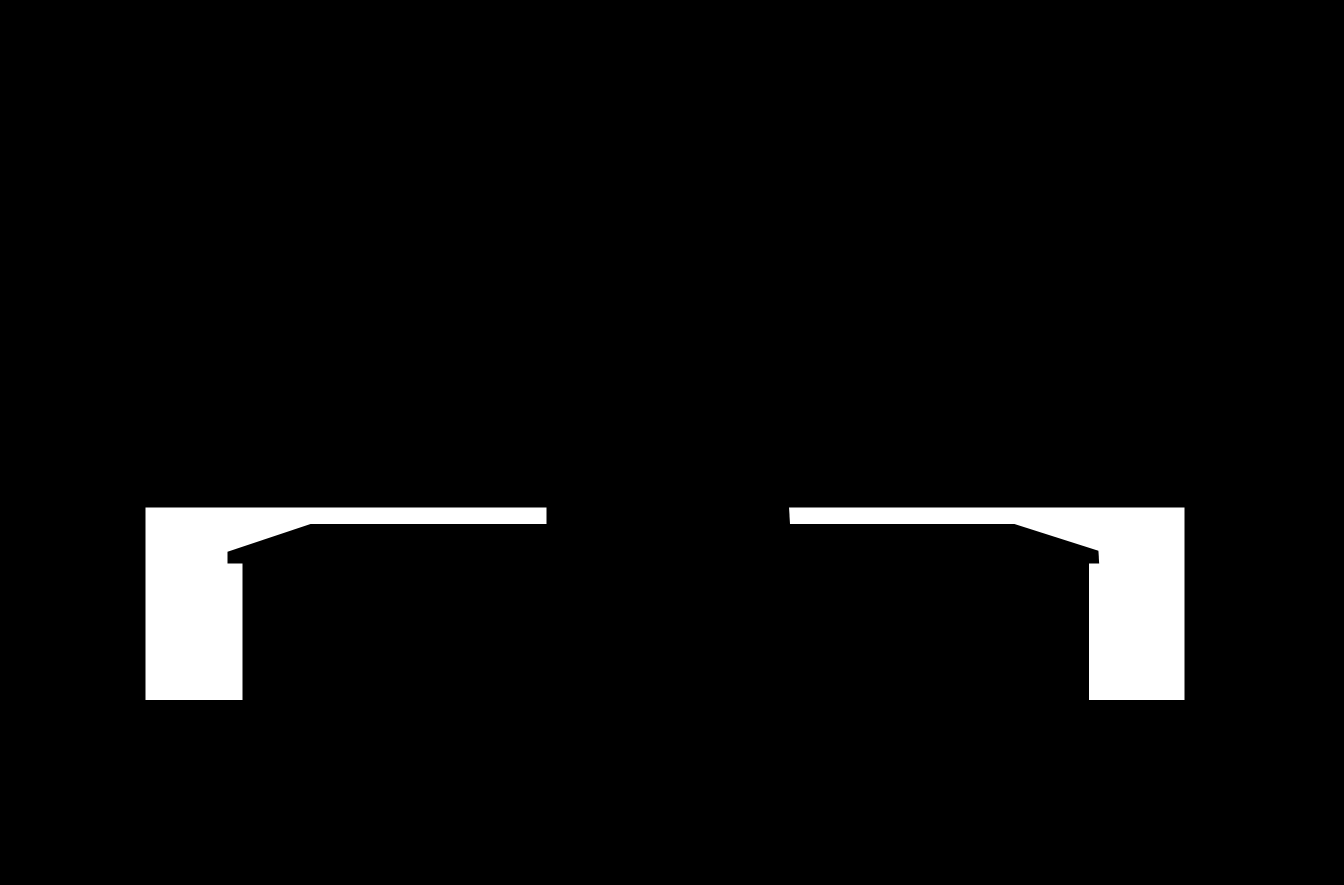
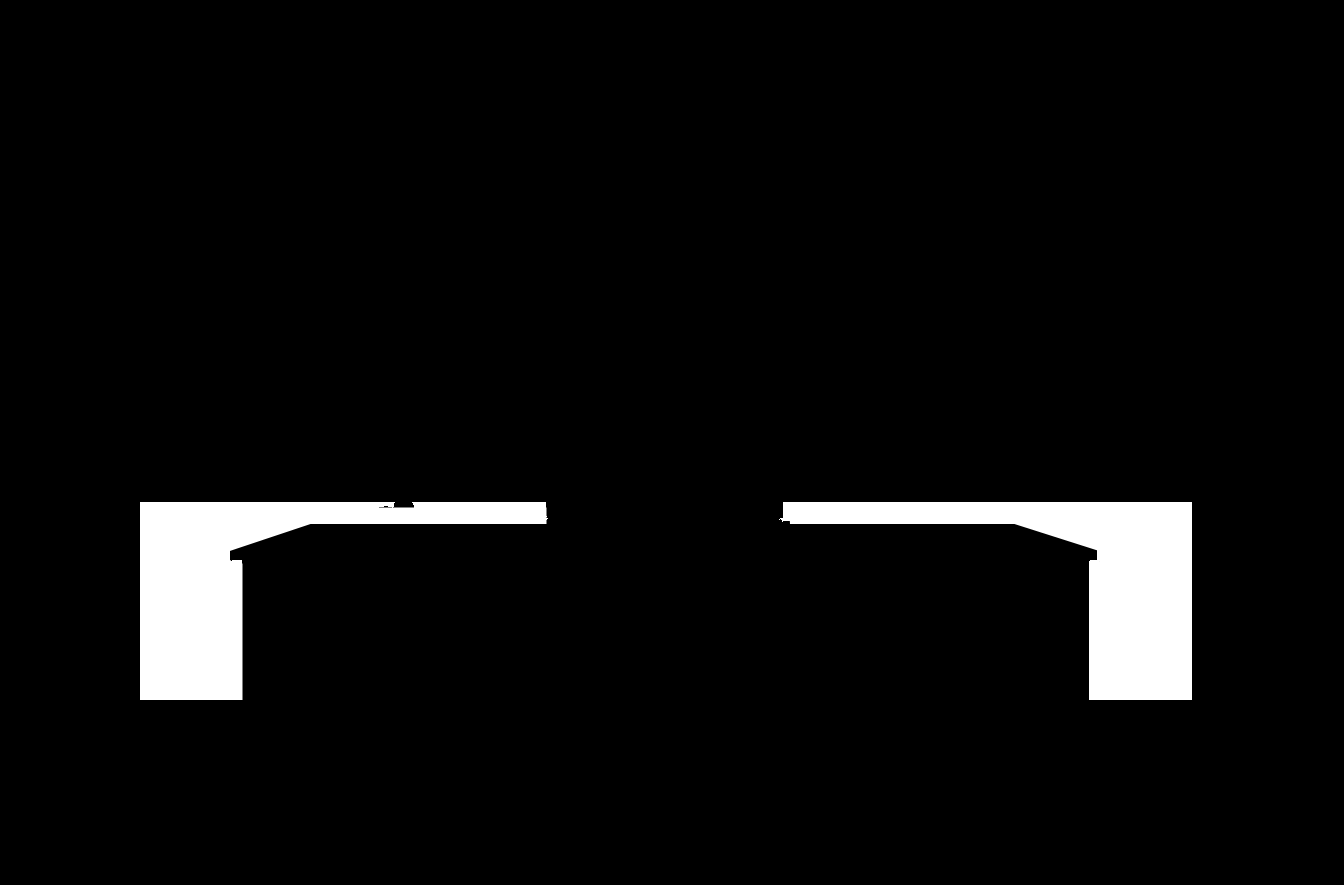
Configurator: picture not clickable, step card as tall as the picture; door styles fully painted
- A tap on the picture no longer jumps to the step that changes that item
- Wide screens: the step card is exactly the picture's height, its choices
  scroll inside
- Layout Designer menu label without its underline
- Slab and Fluted doors: the base runs' end stiles beside the larders and
  the rail under the worktop kept the old cream on any paint; every pixel
  the base fronts paint fully and a door style didn't now goes to its base
  owner, pinned in scenes/qa.ts

Changed region(s): [[0.5625, 0.5492, 0.9062, 0.7932], [0.0938, 0.5492, 0.4062, 0.7932]]

diff --git a/components/configurator/Configurator.tsx b/components/configurator/Configurator.tsx
@@ -17,7 +17,7 @@ import { BrandBar } from './BrandBar';
 import { FinishChoices } from './FinishChoices';
 import { StyleChoices } from './StyleChoices';
 import { SummaryStep } from './SummaryStep';
-import { lookLabel, stepMaterial, stepOfItem, wizardSteps } from './wizard';
+import { lookLabel, stepMaterial, wizardSteps } from './wizard';
 
 // No outline is ever drawn over the picture (the client found borders on it unprofessional)
 const NO_OUTLINE: string[] = [];
@@ -107,7 +107,7 @@ const Wizard: React.FC = () => {
 
       <main className="mx-auto grid max-w-[1280px] gap-5 px-4 pb-32 pt-2 sm:px-8 lg:grid-cols-[minmax(0,1fr)_420px] lg:gap-10 lg:pb-12 lg:pt-4">
         {/* The picture: pinned under the header on phones, sticky on the left on wide screens */}
-        <div className="sticky top-[76px] z-20 -mx-4 self-start bg-paper px-4 pb-2 sm:mx-0 sm:px-0 lg:top-24">
+        <div className="sticky top-[76px] z-20 -mx-4 self-start bg-paper px-4 pb-2 sm:mx-0 sm:px-0 lg:top-24 lg:pb-0">
           {/* One frame for every step and layout: the widest render fills it, narrower ones sit centred in it */}
           <div data-testid="picture-frame" className="flex justify-center" style={{ aspectRatio: FRAME_ASPECT }}>
           <div
@@ -123,10 +123,6 @@ const Wizard: React.FC = () => {
               compare={compare}
               paint={paint}
               sweep={sweep && baked ? { ...sweep, width: baked.width, height: baked.height } : null}
-              onSelect={(id) => {
-                const to = id ? stepOfItem(steps, id) : -1;
-                if (to >= 0 && to !== index) go(to);
-              }}
             />
             {!compare && (
               <span data-testid="look-chip" className="pointer-events-none absolute left-3 top-3 max-w-[70%] truncate rounded-full bg-paper/95 px-3.5 py-1.5 text-[12.5px] font-medium text-spruce shadow-[0_4px_14px_-6px_rgba(30,43,41,0.4)]">
@@ -151,7 +147,10 @@ const Wizard: React.FC = () => {
           {scene.source === 'unsplash' && <p className="mt-1.5 hidden text-[11px] text-spruce-soft/80 lg:block">Photo by {scene.credit.replace(/ \(.*\)$/, '')} on Unsplash</p>}
         </div>
 
-        <div ref={panel} className="scroll-mt-[60vh] lg:flex lg:max-h-[calc(100vh/var(--app-zoom,1)_-_7rem)] lg:flex-col lg:self-start lg:rounded-2xl lg:border lg:border-line lg:bg-white/60 lg:sticky lg:top-24">
+        {/* Wide screens: the step card is exactly as tall as the picture beside it (the grid row is the
+            picture's height; the card is laid over that cell) and its choices scroll inside it */}
+        <div className="lg:relative">
+        <div ref={panel} className="scroll-mt-[60vh] lg:absolute lg:inset-0 lg:flex lg:flex-col lg:rounded-2xl lg:border lg:border-line lg:bg-white/60">
           <div key={step.id} className="motion-safe:animate-[pop-in_220ms_ease-out] lg:flex-1 lg:overflow-y-auto lg:p-6">
             <h1 className="font-serif text-[28px] leading-[1.1] text-spruce sm:text-[32px]">{step.title}</h1>
             <p className="mt-1.5 text-[15px] leading-relaxed text-spruce-soft">{step.hint}</p>
@@ -265,6 +264,7 @@ const Wizard: React.FC = () => {
               )}
             </div>
           </nav>
+        </div>
         </div>
       </main>
     </div>

diff --git a/components/studio/SceneCanvas.tsx b/components/studio/SceneCanvas.tsx
@@ -18,7 +18,8 @@ interface Props {
   paint: { itemIds: string[]; token: number } | null;
   // A design style just changed: a soft light sweeps across that area (photo px)
   sweep?: { rect: { x: number; y: number; w: number; h: number }; token: number; width: number; height: number } | null;
-  onSelect: (itemId: string | null, additive: boolean) => void;
+  // Without it a click on the picture does nothing (the configurator: no jumping between steps)
+  onSelect?: (itemId: string | null, additive: boolean) => void;
 }
 
 // The item under the pointer gets only its name (no outline: the client found a border over the
@@ -215,7 +216,7 @@ export const SceneCanvas: React.FC<Props> = ({ scene, renderUrl, masks, selected
     <div
       ref={boxRef}
       data-testid="scene-canvas"
-      className={`relative select-none overflow-hidden rounded-xl bg-mist ring-1 ring-line shadow-[0_24px_60px_-28px_rgba(30,43,41,0.45)] touch-none ${compare ? 'cursor-ew-resize' : hover ? 'cursor-pointer' : 'cursor-default'}`}
+      className={`relative select-none overflow-hidden rounded-xl bg-mist ring-1 ring-line shadow-[0_24px_60px_-28px_rgba(30,43,41,0.45)] touch-none ${compare ? 'cursor-ew-resize' : hover && onSelect ? 'cursor-pointer' : 'cursor-default'}`}
       onPointerMove={onMove}
       onPointerLeave={() => setHover(null)}
       onPointerDown={(e) => {
@@ -226,7 +227,7 @@ export const SceneCanvas: React.FC<Props> = ({ scene, renderUrl, masks, selected
       }}
       onPointerUp={() => (dragging.current = false)}
       onClick={(e) => {
-        if (compare) return;
+        if (compare || !onSelect) return;
         const p = pct(e as unknown as React.PointerEvent);
         onSelect(hitTest(masks, p.x, p.y), e.shiftKey || e.metaKey || e.ctrlKey);
       }}

diff --git a/scenes/qa.ts b/scenes/qa.ts
@@ -88,6 +88,10 @@ export const SCENE_QA: Record<string, ItemQa> = {
   // …and the island top's lit back edge (y 521–523) under the range and before the base cabinets
   'kitchen/worktop': { include: [[550, 490], [778, 490], [1190, 498], [600, 522], [700, 522], [900, 522]], exclude: [[600, 480], [650, 510], [600, 519], [1190, 490]] },
   'kitchen/base-cabinets': { include: [[1187, 600], [1190, 650]], exclude: [[188, 571], [188, 635], [265, 523], [1139, 524], [1141, 635], [1065, 523]] },
+  // The door styles' base runs: the end stiles beside the larders and the rail under the worktop
+  // (their style bakes once left these in the old cream; filled from the base fronts)
+  'kitchen/kitchen-doors--slab/base-cabinets': { include: [[143, 600], [143, 520], [1188, 600], [1188, 540], [300, 504], [900, 504]] },
+  'kitchen/kitchen-doors--fluted/base-cabinets': { include: [[143, 600], [143, 520], [1188, 600], [1188, 540], [300, 504], [900, 504]] },
   // Modern kitchen: the plain wall behind the worktop is splashback (one protect click took it as an
   // object once), the pampas grass, tap, pan and vase before it are not; the induction hob is not worktop
   // The back wall's strip beside the window runs up to the ceiling; above it is ceiling, right of it

diff --git a/tests/e2e/configurator.spec.ts b/tests/e2e/configurator.spec.ts
@@ -113,14 +113,15 @@ test.describe('kitchen', () => {
     await page.reload();
     await expect(page.getByTestId('design-summary')).toContainText('Bianco Quartz');
 
-    // Back goes back a step; a tap on the picture jumps to the step that changes that item
+    // Back goes back a step; a tap on the picture stays on the step (no jumping to another)
     await page.getByTestId('back').click();
     await expect(page.getByTestId('step-note')).toHaveText('Step 4 of 5');
     await page.waitForTimeout(500); // item masks load for hit-testing
     const box = (await page.getByTestId('scene-canvas').boundingBox())!;
-    // The island: its first step is the door style
+    // The island, whose first step is the door style
     await page.getByTestId('scene-canvas').click({ position: { x: box.width * 0.55, y: box.height * 0.85 } });
-    await expect(page.getByTestId('step-note')).toHaveText('Step 2 of 5');
+    await page.waitForTimeout(300);
+    await expect(page.getByTestId('step-note')).toHaveText('Step 4 of 5');
 
     expect(requests.filter((u) => u.includes('/models/'))).toEqual([]);
   });

diff --git a/components/configurator/BrandBar.tsx b/components/configurator/BrandBar.tsx
@@ -26,9 +26,7 @@ export const BrandBar: React.FC<Props> = ({ note, progress }) => (
             <span
               key={item.label}
               aria-current={item.current ? 'page' : undefined}
-              className={`whitespace-nowrap border-b pb-1 text-[10.5px] font-medium uppercase tracking-[0.14em] sm:text-[12.5px] ${
-                item.current ? 'border-brass text-spruce' : 'border-transparent text-spruce-soft'
-              }`}
+              className={`whitespace-nowrap text-[10.5px] font-medium uppercase tracking-[0.14em] sm:text-[12.5px] ${item.current ? 'text-spruce' : 'text-spruce-soft'}`}
             >
               {item.label}
             </span>

diff --git a/CLAUDE.md b/CLAUDE.md
@@ -4,7 +4,7 @@ This file provides guidance to Claude Code (claude.ai/code) when working with co
 
 ## What this is
 
-**Three customer apps from one codebase**: the kitchen app is branded **Native Coast · Kitchen Appliances** (the client's brand; Vercel project `hollin-kitchens`), **Hollin Bathrooms** and **Hollin Fencing**, each its own Vercel project with the same look and feel: a wordmark header (brand in Playfair over its product line in spaced capitals; `nav` in the app config adds menu labels on the right — the kitchen's "Layout Designer" (current), a label only for now; "AI Visualiser" was taken off at the client's request until it exists). A customer starts on the front page (the kitchen picks its layout there, the photo following, and Start opens the step after the layout), then answers one question per step (Hollin Kitchens first picks one of three layouts: Classic with island `kitchen`, Modern U-shape `kitchen-modern`, Galley with island `kitchen-galley`, all client renders) ("Step 2 of 6": door style, colour, worktop…) while the real photo above changes with each answer, and ends on a summary (each choice, Request a quote — whose email carries the design's link — Download image, Start over; no Copy link). The kitchen app asks layout, doors, colour (and the Modern kitchen's panels) and worktop; its splashback and floor stay as shown (`fixedItems` in `apps/kitchen.ts`: no step, and a share link can't change them). On very wide screens (a showroom's 100-inch 4K panel) the customer pages scale up in steps (`.app-scale` in `index.html`, CSS `zoom` with `--app-zoom` so vh heights divide back). Kitchen and Bathroom change **design and materials**; Fencing changes the **fence design only** (no colour step). There is **no photo upload**, no sign-in and no backend on the customer path: every item's mask and plane was cut once, offline, and committed ("baked"), and design styles were generated offline, so the apps render instantly and never run a model in the customer's browser.
+**Three customer apps from one codebase**: the kitchen app is branded **Native Coast · Kitchen Appliances** (the client's brand; Vercel project `hollin-kitchens`), **Hollin Bathrooms** and **Hollin Fencing**, each its own Vercel project with the same look and feel: a wordmark header (brand in Playfair over its product line in spaced capitals; `nav` in the app config adds menu labels on the right, no underline — the kitchen's "Layout Designer" (current), a label only for now; "AI Visualiser" was taken off at the client's request until it exists). A customer starts on the front page (the kitchen picks its layout there, the photo following, and Start opens the step after the layout), then answers one question per step (Hollin Kitchens first picks one of three layouts: Classic with island `kitchen`, Modern U-shape `kitchen-modern`, Galley with island `kitchen-galley`, all client renders) ("Step 2 of 6": door style, colour, worktop…) while the real photo above changes with each answer, and ends on a summary (each choice, Request a quote — whose email carries the design's link — Download image, Start over; no Copy link). The kitchen app asks layout, doors, colour (and the Modern kitchen's panels) and worktop; its splashback and floor stay as shown (`fixedItems` in `apps/kitchen.ts`: no step, and a share link can't change them). On very wide screens (a showroom's 100-inch 4K panel) the customer pages scale up in steps (`.app-scale` in `index.html`, CSS `zoom` with `--app-zoom` so vh heights divide back). Kitchen and Bathroom change **design and materials**; Fencing changes the **fence design only** (no colour step). There is **no photo upload**, no sign-in and no backend on the customer path: every item's mask and plane was cut once, offline, and committed ("baked"), and design styles were generated offline, so the apps render instantly and never run a model in the customer's browser.
 
 **Which app a build is**: `VITE_APP=kitchen|bathroom|fencing` (default `kitchen`; unknown ids fail the build). App configs live in `apps/` (`kitchen.ts`, `fencing.ts`, `bathroom.ts`; `registry.ts` is plain data, also read by `vite.config.ts`). Each lists its brand, intro copy, `sceneIds` and `steps`. A step offers a style group's baked designs (`style`), finishes for some items (`finish.itemIds`), or both. A production build ships only the app's own `public/scenes/<id>/` and hashes only those. **Vercel**: three projects on this one repo, each with the env var `VITE_APP` set and its own domain; the build command and `vercel.json` are shared. **Bathroom** waits on the client's render: until its scene is in `scenes/scenes.ts` and baked, the bathroom app shows its intro with "Coming soon" (its materials are already in `scenes/materials.ts`; its style groups go into `scenes/styles.ts` once the scene exists, because the catalogue tests require real items).
 
@@ -44,13 +44,13 @@ It is a clone of the original multi-tenant material visualizer. React 19 + Vite 
 ### Design styles — AI redesigns, generated offline (`/dev/styles`)
 Whole-item redesigns (fence type, door style, worktop, splashback, media-wall panel) on top of finishes. `scenes/styles.ts` lists `STYLE_GROUPS` (which items a style replaces) and `STYLE_OPTIONS` (label + prompt; `recipeOverrides` per item, e.g. `intersectCut` for a picket fence's gaps); `generationPrompt` adds the shared instructions (light neutral unfinished material so finishes apply on top, same camera/light, change only the masked area).
 - `components/dev/StyleLabPage.tsx` + `scenes/styleGen.ts`: the region is the group's baked item masks, grown 6 px, **minus their occluders** (objects in front stay the photo's own pixels). The photo is letterboxed (never stretched) to the provider's shape and sent with the mask to `POST /__styles/generate` (`scripts/sceneBakeDevServer.ts`, server-side; `GEMINI_API_KEY` → Gemini image editing, else `OPENAI_API_KEY` → `gpt-image-1` masked edit; `GEMINI_IMAGE_MODEL`/`OPENAI_IMAGE_MODEL` override). Candidates are cropped back, colour-matched on a ring outside the region (`seamGain`) and blended with an edge feathered *inside* the region (`scenes/styleBlend.ts`, unit-tested: pixels outside are byte-identical). Picking a candidate ("Use this") is the quality gate: its cropped RGBA patch is saved (`POST /__styles/save` → `public/scenes/<scene>/styles/<group>--<option>/patch.webp`, `scenes/styles.baked.json`) and every item of the group is re-baked on the new design with the normal bake pipeline (`saveBakedItem(..., { styleKey })`).
-- A style whose committed design was made on an older photo of its scene carries `stale` (`scenes/styles.ts`) and is not offered (`styleBake` returns nothing for it, so share links drop it too) until it is generated again: the Classic kitchen's Thick stone worktop and three splashback styles, made on the photo with the vases. The door styles (Slab, Fluted) were re-baked on the new photo with their committed patches, no AI needed: run the group's items through `bakeItem` on photo + patch, with the base item's occluder, and `saveBakedItem(..., { styleKey })`.
+- A style whose committed design was made on an older photo of its scene carries `stale` (`scenes/styles.ts`) and is not offered (`styleBake` returns nothing for it, so share links drop it too) until it is generated again: the Classic kitchen's Thick stone worktop and three splashback styles, made on the photo with the vases. The door styles (Slab, Fluted) were re-baked on the new photo with their committed patches, no AI needed: run the group's items through `bakeItem` on photo + patch, with the base item's occluder, and `saveBakedItem(..., { styleKey })`. Their outer edges are the base fronts' (only the doors change), so every pixel the base fronts paint fully and a door style didn't (the base runs' end stiles beside the larders, the rail under the worktop) was given to its base owner in the style's mask; `scenes/qa.ts` pins those points.
 - Fence styles are keyed by colour (`PALE_TIMBER` override in `scenes/styles.ts`, which also accepts cedar for runs the AI left as they were) over the item's outline grown a few px where the patch is the AI's; `npm run scenes:refine` re-derives them from the committed patches without regenerating.
 - Studio: `state.styles` (group → option, absent = as designed; in the share link as `styles=`). `useComposedScene` draws the chosen patches over the photo (lossless PNG, cached per combination) and returns the styles actually **drawn** in that picture; masks (`useSceneMasks`, `useLookRender` via `scenes/lookLayers.ts`) follow the drawn styles, never chosen ones still loading or failed, so a style's masks never sit over the unstyled photo; `bakedItemFor` (`scenes/stylesBaked.ts`) gives each item the chosen style's masks, so finishes, hover and selection follow the new shape. The configurator's `StyleChoices` shows only styles generated *and* baked for every item of the group, previewed by layering the patch over the photo in CSS; a soft light sweep plays over the changed area once the new design is on screen.
 
 ### The configurator (`components/configurator/`, built on `components/studio/`)
-- `wizard.ts` (unit-tested) turns the app's steps into the scene's **ready** steps: a style step only if its group has designs baked for every item (`readyStyles`), a finish step only for baked items with fitting materials (`materialsFor`); empty steps drop out; a `scene` step is added first when an app has several scenes; `summary` comes last. It also gives the look chip text (`lookLabel`), the step a tap on an item jumps to (`stepOfItem`) and the items a step changes (`stepItems`; no longer outlined when a step opens — the configurator draws no outline over the picture at all, at the client's request).
-- `Configurator.tsx` holds the reducer and wires `useComposedScene` → `useSceneMasks` → `useLookRender` → `SceneCanvas`. Phones: brand bar + progress segments, the picture pinned under it, the step below, Back / Next fixed at the bottom. Wide screens: the picture on the left, the step card with its Back / Next on the right. The picture keeps **one size through every step and layout**: it sits in a frame the shape of the app's widest render (`FRAME_ASPECT`), a narrower render (the Galley) centred in it with paper either side, and `html { scrollbar-gutter: stable }` (`index.html`) keeps a step's taller content from narrowing the page when the scrollbar appears. `StyleChoices` (design cards cropped from the photo + patch), `FinishChoices` (swatches; tapping the chosen one again takes it off), `SummaryStep` (each choice, tap to edit; Download, Copy link, Request a quote to `APP.quoteEmail`, Start over), `BrandBar`, `Intro`.
+- `wizard.ts` (unit-tested) turns the app's steps into the scene's **ready** steps: a style step only if its group has designs baked for every item (`readyStyles`), a finish step only for baked items with fitting materials (`materialsFor`); empty steps drop out; a `scene` step is added first when an app has several scenes; `summary` comes last. It also gives the look chip text (`lookLabel`), the step that changes an item (`stepOfItem`; a tap on the picture no longer jumps there — the client wants the customer to stay on their step, so `SceneCanvas` gets no `onSelect` and the picture isn't clickable) and the items a step changes (`stepItems`; no longer outlined when a step opens — the configurator draws no outline over the picture at all, at the client's request).
+- `Configurator.tsx` holds the reducer and wires `useComposedScene` → `useSceneMasks` → `useLookRender` → `SceneCanvas`. Phones: brand bar + progress segments, the picture pinned under it, the step below, Back / Next fixed at the bottom. Wide screens: the picture on the left, the step card with its Back / Next on the right, exactly as tall as the picture (the card is laid over its grid cell, whose height is the picture's) with its choices scrolling inside. The picture keeps **one size through every step and layout**: it sits in a frame the shape of the app's widest render (`FRAME_ASPECT`), a narrower render (the Galley) centred in it with paper either side, and `html { scrollbar-gutter: stable }` (`index.html`) keeps a step's taller content from narrowing the page when the scrollbar appears. `StyleChoices` (design cards cropped from the photo + patch), `FinishChoices` (swatches; tapping the chosen one again takes it off), `SummaryStep` (each choice, tap to edit; Download, Copy link, Request a quote to `APP.quoteEmail`, Start over), `BrandBar`, `Intro`.
 - Finish steps dispatch `assign` (all the step's items at once); the URL carries `scene`, `styles`, `look` and `step`, and the share link opens on the summary. Only the app's scenes (`scenes/appScenes.ts`) are accepted from a link.
 
 ### The picture (`components/studio/`)
